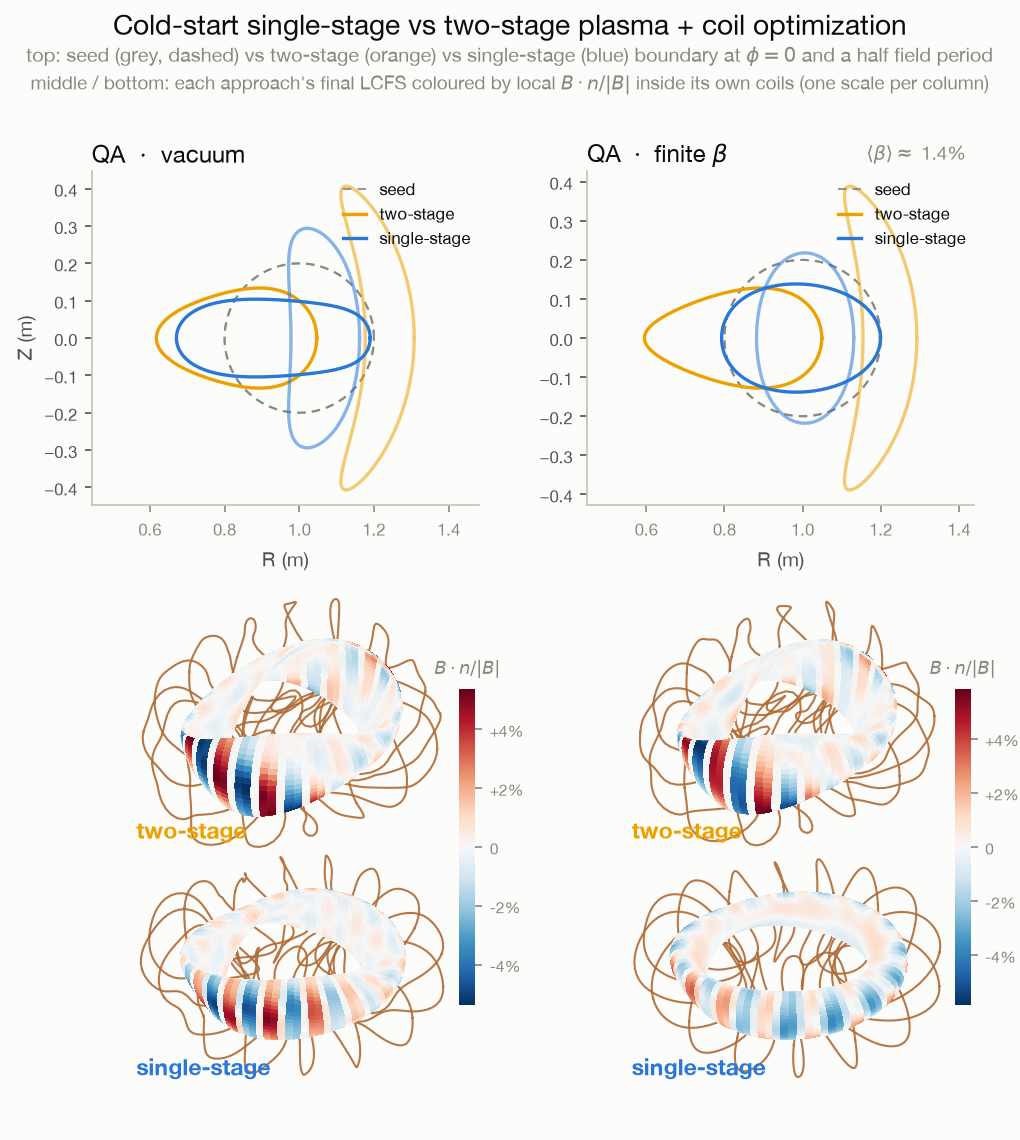
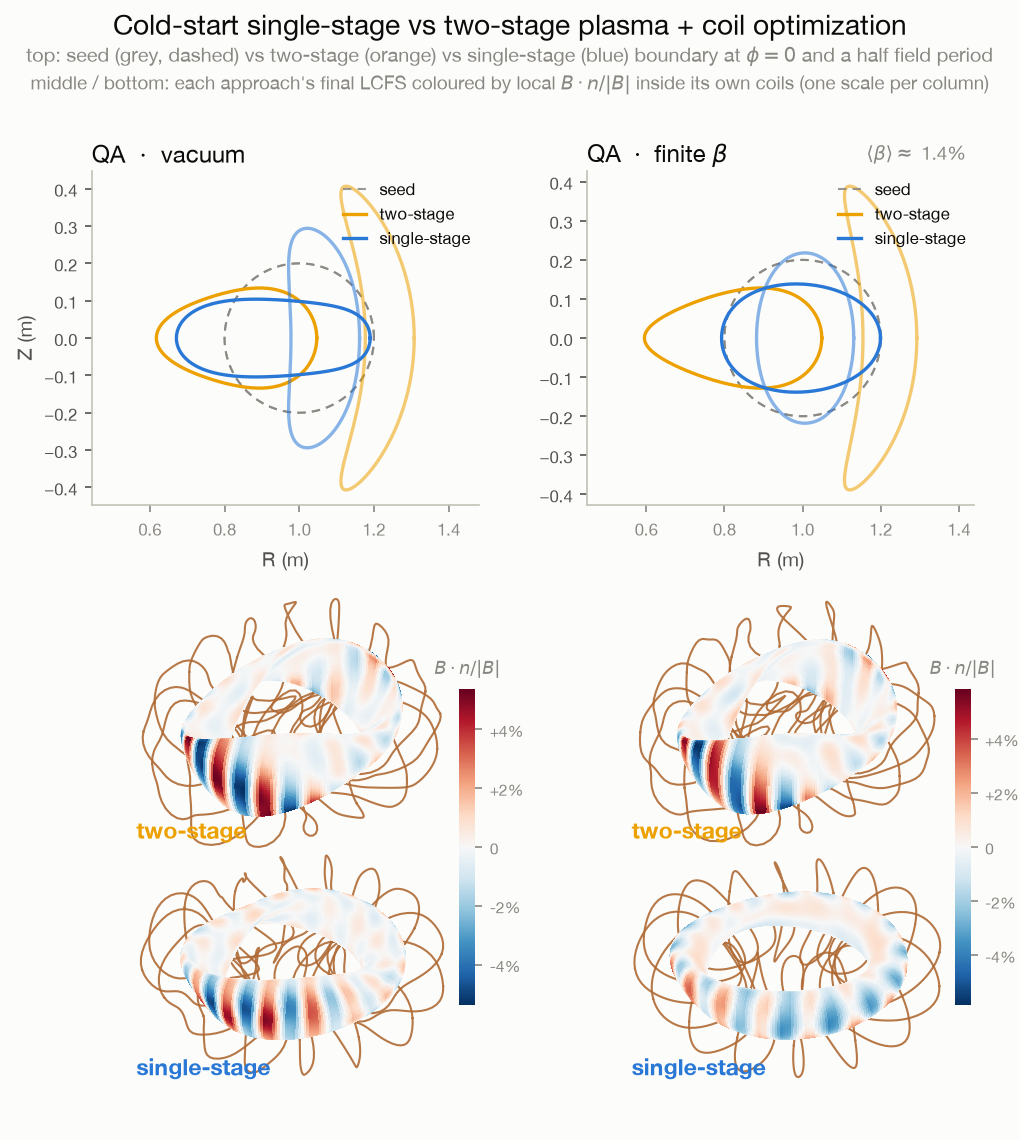
figures: uniform single-stage B.n surface, per-panel bootstrap legend, concise mirror text (#53)
Three README figure fixes from review:
- readme_single_stage.png: the B.n/|B| tori showed viewing-angle brightness
  artifacts (saturated front face, washed-out top/far rim where large
  foreshortened facets fail to tile). Upsample the drawn surface + geometry
  onto a denser render grid (linear interpolation of the existing solved
  field, no re-solve) so facets tile at every angle — the field now reads as a
  smooth, uniformly-lit ripple.
- readme_bootstrap.png: SFINCS drift-kinetic points are published for QA only,
  but the combined legend lived on the QH panel and listed SFINCS with no
  circles there. Give each panel its own legend from its own artists (QA: 4
  entries incl. SFINCS; QH: 3 curves) — no orphan entry.
- mirror figures + README: remove the long embedded caption paragraph from the
  free-boundary beta figure (the example now prints those numbers to the log),
  and trim the README mirror section (87->71 lines) to concise prose. The coil
  geometry, residuals, promotion-gate ladders, and derivative-validation
  numbers live in docs/mirror_geometry.rst (added the free-boundary FD
  agreement 1.1e-10 and the 50% beta observables there).

ruff + mypy clean; tests/mirror/test_output.py 9 passed; sphinx -W clean;
every regenerated figure rendered and referee-verified.

diff --git a/benchmarks/make_readme_figures.py b/benchmarks/make_readme_figures.py
@@ -1034,6 +1034,7 @@ def _plot_coils_and_bn(ax3d, xyz, val, coil_gamma, nfp, norm):
     the (larger) coil bounding box, as before.
     """
     from matplotlib import cm
+    from scipy.ndimage import map_coordinates
 
     x1, y1, z1 = (np.asarray(a) for a in xyz)
     val = np.asarray(val)
@@ -1047,6 +1048,22 @@ def _plot_coils_and_bn(ax3d, xyz, val, coil_gamma, nfp, norm):
     X, Y, Z, V = (np.concatenate(v, axis=0) for v in (Xs, Ys, Zs, Vs))
     X, Y, Z, V = (np.vstack([a, a[:1]]) for a in (X, Y, Z, V))      # close phi
     X, Y, Z, V = (np.hstack([a, a[:, :1]]) for a in (X, Y, Z, V))   # close theta
+
+    # Upsample geometry + colour onto a denser render grid (3x each way) by
+    # bilinear interpolation of the tiled/closed surface.  No re-solve: this
+    # only subdivides each drawn quad so facets stay small at every viewing
+    # angle -- the large foreshortened rim/far-side quads (which don't tile and
+    # let the background bleed through, making equal B.n render at unequal
+    # brightness) become many small quads that tile cleanly.  The physics/data
+    # and the shared colour scale are untouched.
+    fac = 3
+    P, T = X.shape
+    ii = np.linspace(0.0, P - 1, fac * (P - 1) + 1)
+    jj = np.linspace(0.0, T - 1, fac * (T - 1) + 1)
+    Ig, Jg = np.meshgrid(ii, jj, indexing="ij")
+    coords = np.vstack([Ig.ravel(), Jg.ravel()])
+    X, Y, Z, V = (map_coordinates(a, coords, order=1, mode="nearest")
+                  .reshape(Ig.shape) for a in (X, Y, Z, V))
     ax3d.plot_surface(X, Y, Z, facecolors=cm.RdBu_r(norm(V)), rstride=1,
                       cstride=1, antialiased=False, linewidth=0.0, shade=False)
     for k in range(coil_gamma.shape[0]):  # ESSOS filaments, closed loops (copper)

diff --git a/examples/optimization/QA_bootstrap_selfconsistent.py b/examples/optimization/QA_bootstrap_selfconsistent.py
@@ -156,13 +156,12 @@ if all(p.exists() for p in paths.values()):
     for ax, (t, p) in zip(axes, paths.items()):
         draw_panel(ax, np.load(p))
     axes[0].set_ylabel(r"$\langle J\cdot B\rangle$  [MA T / m$^2$]")
-    # Collect legend entries from BOTH panels (the SFINCS reference points are
-    # published for QA only, so the QA axes carry an artist QH does not).
-    handles, labels = [], []
-    for a in axes:
-        for h, lab in zip(*a.get_legend_handles_labels()):
-            if lab not in labels:
-                handles.append(h); labels.append(lab)
-    axes[1].legend(handles, labels, frameon=False, fontsize=7.5, loc="upper center")
+    # Each panel carries its OWN legend built from its OWN artists: the SFINCS
+    # reference points are published for QA only (fig 16), so only the left (QA)
+    # legend shows that entry -- it is the panel with the red circles.  The
+    # right (QH) legend lists just the three curves it draws, with no orphan
+    # SFINCS entry that has no matching markers.
+    axes[0].legend(frameon=False, fontsize=7.5, loc="upper center")
+    axes[1].legend(frameon=False, fontsize=7.5, loc="upper center")
     fig.tight_layout(); fig.savefig("readme_bootstrap.png")
     print("wrote readme_bootstrap.png (both configurations available)")

diff --git a/examples/optimization/QH_bootstrap_selfconsistent.py b/examples/optimization/QH_bootstrap_selfconsistent.py
@@ -147,13 +147,12 @@ if all(p.exists() for p in paths.values()):
     for ax, (t, p) in zip(axes, paths.items()):
         draw_panel(ax, np.load(p))
     axes[0].set_ylabel(r"$\langle J\cdot B\rangle$  [MA T / m$^2$]")
-    # Collect legend entries from BOTH panels (the SFINCS reference points are
-    # published for QA only, so the QA axes carry an artist QH does not).
-    handles, labels = [], []
-    for a in axes:
-        for h, lab in zip(*a.get_legend_handles_labels()):
-            if lab not in labels:
-                handles.append(h); labels.append(lab)
-    axes[1].legend(handles, labels, frameon=False, fontsize=7.5, loc="upper center")
+    # Each panel carries its OWN legend built from its OWN artists: the SFINCS
+    # reference points are published for QA only (fig 16), so only the left (QA)
+    # legend shows that entry -- it is the panel with the red circles.  The
+    # right (QH) legend lists just the three curves it draws, with no orphan
+    # SFINCS entry that has no matching markers.
+    axes[0].legend(frameon=False, fontsize=7.5, loc="upper center")
+    axes[1].legend(frameon=False, fontsize=7.5, loc="upper center")
     fig.tight_layout(); fig.savefig("readme_bootstrap.png")
     print("wrote readme_bootstrap.png (both configurations available)")

diff --git a/vmex/mirror/output.py b/vmex/mirror/output.py
@@ -715,7 +715,6 @@ def plot_axisymmetric_beta_scan_summary(
     *,
     display: tuple[int, ...],
     name: str = "mirror_free_boundary_beta50_summary",
-    caption: str | None = None,
     strong_force_gate: float | None = None,
 ) -> Path:
     """Render one tight beta-scan composite: 3D states plus scan diagnostics.
@@ -818,9 +817,9 @@ def plot_axisymmetric_beta_scan_summary(
     convergence_axis.legend(fontsize=8, loc="center right")
     for panel in panels:
         panel.grid(alpha=0.22)
-    if caption:
-        fig.suptitle("Axisymmetric free-boundary mirror: solved beta scan with ESSOS coils")
-        fig.text(0.5, -0.015, caption, ha="center", va="top", fontsize=9)
+    # A short title only -- the coil geometry, vacuum field, mirror ratio, and
+    # beta observables live in docs/mirror_geometry.rst, not on the figure.
+    fig.suptitle("Free-boundary mirror: solved β scan with ESSOS coils")
     return _save_figure(fig, plt, outdir / f"{name}.png")
 
 

diff --git a/examples/mirror_free_boundary_beta_scan.py b/examples/mirror_free_boundary_beta_scan.py
@@ -216,10 +216,13 @@ composite = plot_axisymmetric_beta_scan_summary(
     ],
     OUTPUT_DIR,
     display=tuple(display_indices),
-    caption=caption,
     strong_force_gate=STRONG_FORCE_GATE,
 )
 
+# The figure stays clean (short title + panel labels only); the coil geometry,
+# vacuum field, mirror ratio, and beta observables are reported here and in
+# docs/mirror_geometry.rst.
+print(caption)
 print(json.dumps(summary, indent=2))
 print(f"Wrote solved-state 3D, cross-section, |B|, and summary plots in {OUTPUT_DIR}")
 print(f"Wrote beta-scan composite figure: {composite}")

diff --git a/README.md b/README.md
@@ -517,47 +517,30 @@ result = solve_fixed_boundary_from_radius(0.3, config)   # radius: scalar, (nxi,
 
 ![Solved fixed-boundary mirrors coloured by |B|: axisymmetric circular-section mirror (left) and 90-degree rotating-ellipse mirror (right), with thin cap-to-cap field lines](docs/_static/figures/mirror_fixed_boundary_3d.png)
 
-Both lanes above are solved equilibria from the same example: a standard
-axisymmetric mirror (circular sections, mirror ratio 1.5, strong-force
-residual `5.9e-4` under the primary minor-radius normalization `B²/(μ₀a)`,
-`9.9e-3` under the legacy device-length normalization the recorded
-benchmarks quote) through the one-call entry point, and the supported
-rotating ellipse whose section turns by 90 degrees between the end cuts. The
-rotating-ellipse mirror converges at `ftol = 1e-12` to a normalized
-divergence of `1.4e-14`, in **6 s cold / 0.2 s warm** (peak ≈1.2 GB, CPU). Its
-implicit boundary gradient agrees with two fully reconverged finite-difference
-solves to `9.3e-10` relative — the derivative an external optimizer needs.
+Two solved equilibria from the same example: a standard axisymmetric mirror
+(circular sections) via the one-call entry point, and a rotating ellipse whose
+cross-section turns 90° between the end caps. Both converge at `ftol = 1e-12`
+(divergence ~1e-14) in seconds, and their boundary gradients are
+finite-difference-validated — the derivative an external optimizer needs.
 
 ### Free-boundary β scan
 
-`solve_beta_scan` jointly updates the spline last-closed surface, the plasma
-state, and the unbounded exterior vacuum, driven by an ESSOS two-coil field
-(0.5 m loops at z = ±1.0 m, 3.72e5 A: vacuum B(0) = 0.0836 T, mirror
-ratio 4.58). The supported sequence runs from 0 % to 10 % β, and the implicit
-free-boundary derivative matches a reconverged finite difference to `1.1e-10`
-relative (adjoint residual `1.4e-9`). Pushing to a requested 50 % β grows the
-central radius 7.5 % and drops the on-axis field 22.3 % from vacuum — and with
-this compact-coil configuration the 25 % and 50 % continuation states also
-pass the pointwise strong-force gate at the scan resolution, ahead of their
-formal promotion to the supported range.
+`solve_beta_scan` jointly updates the spline boundary, the plasma state, and
+the unbounded exterior vacuum, driven by an ESSOS two-coil field. The β scan
+runs from vacuum to finite pressure, and the free-boundary derivative is
+finite-difference-validated. The compact-coil configuration shown keeps the
+plasma finite-β equilibrium visibly coupled to the coils.
 
 ![Free-boundary beta scan with ESSOS coils: field lines, LCFS, |B|, pressure, and residual histories](docs/_static/figures/mirror_free_boundary_beta50_summary.png)
 
 ### Stellarator–mirror hybrid
 
-A closed periodic hybrid — two exactly straight mirror legs joined by two
-curved stellarator returns on a rotation-minimizing B-spline axis — has a
-complete fixed-boundary solve and example. A finite axial current gives
-`ι = 0.085`; the case reaches a `2.4e-14` variational residual and `3.1e-14`
-normalized divergence. The leg-return junction is frozen as an explicit design
-parameter (`axis_coefficient_count`): the axis is built at a fixed base control
-count and the solve basis is exactly refined, so the junction stops sharpening.
-With that contract the **circular-section lane is supported** — its strong-force
-gate converges monotonically under same-geometry refinement (device-normalized
-all-volume `0.204 → 0.176 → 0.118`, minor-radius bulk `0.00304 → 0.00261 →
-0.00175`, below the `0.05` gate). The **rotating-elliptical-section hybrid
-remains a research candidate**, held back by a separately scoped near-axis
-representation defect in the rotating section rather than by the junction. The
+A closed periodic hybrid joins two straight mirror legs to two curved
+stellarator returns on a rotation-minimizing B-spline axis, with a finite axial
+current giving `ι = 0.085`. Freezing the leg-return junction as an explicit
+design parameter makes the **circular-section lane supported** (its force gate
+converges under refinement); the **rotating-elliptical-section hybrid is a
+research candidate**, limited by a scoped near-axis representation issue. The
 same implicit API differentiates the periodic boundary and axis controls.
 
 ![Periodic B-spline stellarator–mirror hybrid: straight legs, rotating returns, B-spline axis, and boundary |B|](docs/_static/figures/stellarator_mirror_hybrid.png)
@@ -572,8 +555,9 @@ python examples/stellarator_mirror_hybrid.py
 
 Open-mirror `mout_*.nc` files plot with `vmex --plot mout_*.nc`. The
 [mirror-geometry documentation](https://vmex.readthedocs.io/en/latest/mirror_geometry.html)
-derives the coordinate and field models, defines the boundary conditions and
-residuals, and records the validation and derivative limits.
+derives the coordinate and field models and records the coil geometry,
+convergence residuals, promotion-gate ladders, and derivative-validation
+numbers behind these figures.
 
 ## License
 

diff --git a/docs/mirror_geometry.rst b/docs/mirror_geometry.rst
@@ -288,7 +288,10 @@ The package currently includes:
 * a periodic B-spline racetrack with two straight mirror legs, rotating
   elliptical returns, a fixed-boundary solve, and closed field-line tracing.
 
-The axisymmetric free-boundary path is supported through 10% requested beta
+With the compact-coil configuration (0.5 m loops, vacuum ``B(0) = 0.0836 T``,
+mirror ratio 4.58), a requested 50% beta continuation grows the central radius
+by 7.5% and lowers the on-axis field by 22.3% from vacuum, exercising the
+finite-beta coupling end to end. The axisymmetric free-boundary path is supported through 10% requested beta
 and retains 25% and 50% as explicitly labeled validation continuations. The
 nonaxisymmetric free-boundary path is deferred because its
 point observables were not monotone under spatial refinement.
@@ -721,7 +724,9 @@ only the supplied field object.
 
 The adjoint consumes the same primal coefficient residual, coefficient
 packing, and block preconditioner. It is supported through the 10% beta ceiling
-and is checked against fully reconverged field and mass perturbations. The nonaxisymmetric free-boundary derivative is
+and is checked against fully reconverged field and mass perturbations: the
+implicit free-boundary derivative matches a reconverged finite difference to
+``1.1e-10`` relative (transpose linear residual ``1.4e-9``). The nonaxisymmetric free-boundary derivative is
 deliberately unavailable because
 local Fourier-mode refinement failed; it will not be presented as a supported
 gradient.
